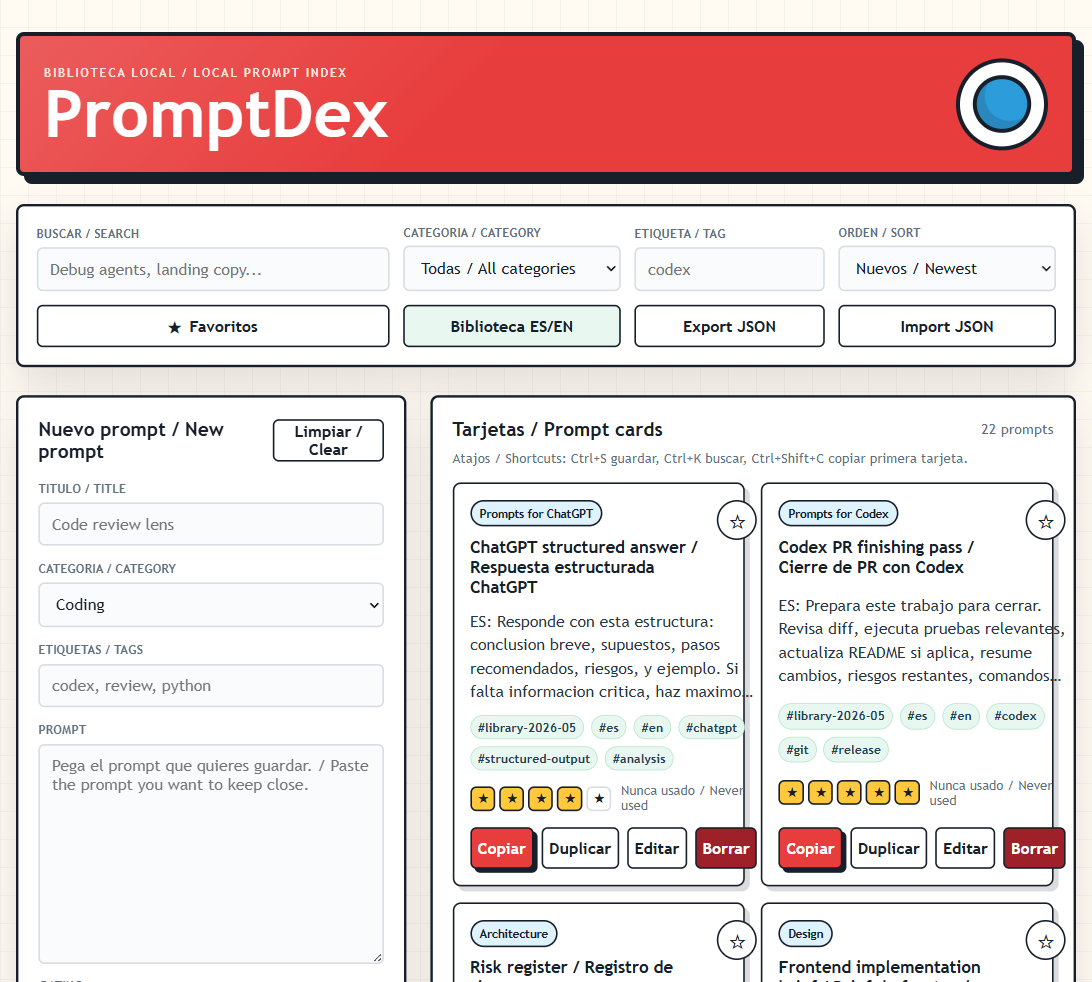
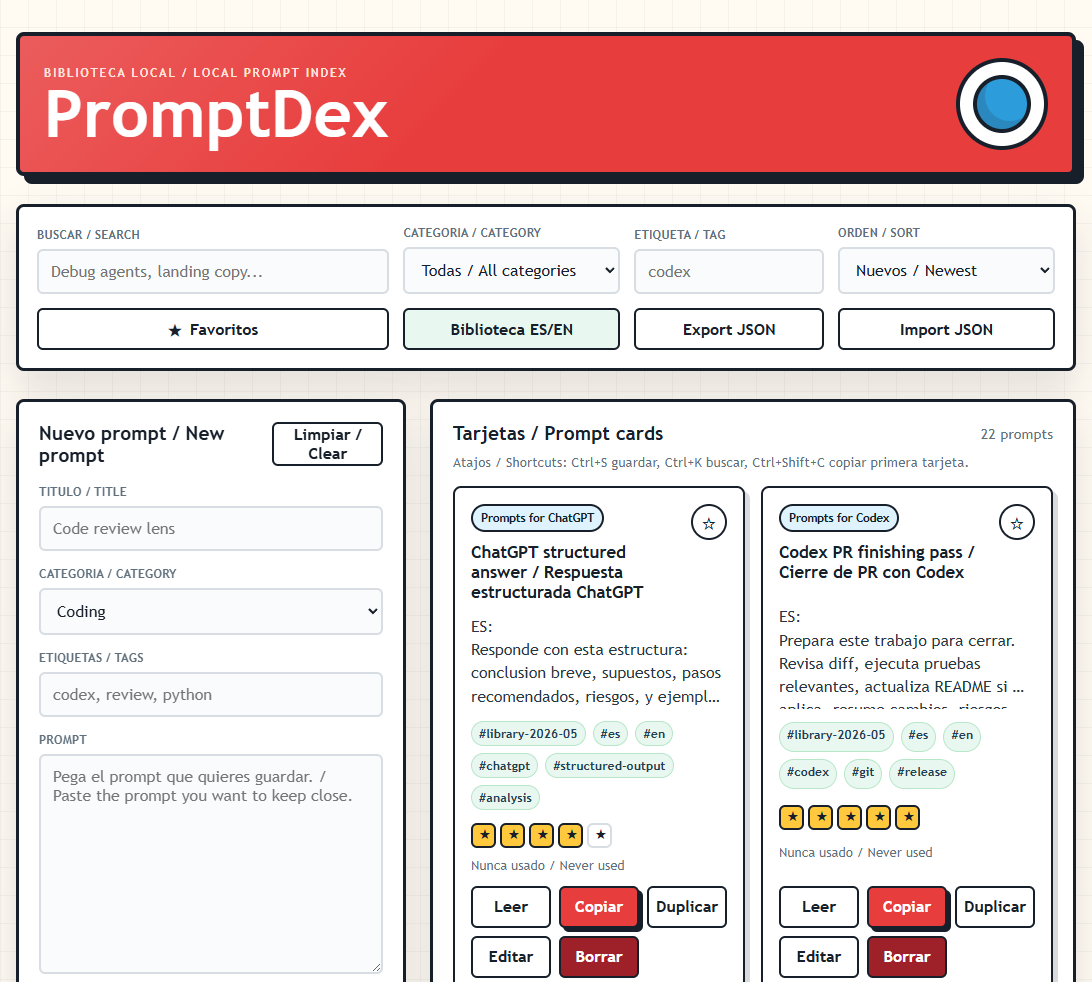
fix: improve prompt card responsiveness

Changed region(s): [[0.0, 0.2138, 0.9963, 1.0], [0.3425, 0.5804, 0.3736, 0.6415], [0.3425, 0.5193, 0.3736, 0.5499]]

diff --git a/promptdex/static/styles.css b/promptdex/static/styles.css
@@ -95,6 +95,7 @@ h2 {
 h3 {
   margin: 10px 0 0;
   font-size: 1.05rem;
+  overflow-wrap: anywhere;
 }
 
 .dex-light {
@@ -323,7 +324,7 @@ button:hover {
 
 .prompt-grid {
   display: grid;
-  grid-template-columns: repeat(auto-fit, minmax(260px, 1fr));
+  grid-template-columns: repeat(auto-fit, minmax(min(100%, 245px), 1fr));
   gap: 16px;
 }
 
@@ -340,8 +341,14 @@ button:hover {
 
 .card-head {
   display: flex;
+  align-items: flex-start;
   justify-content: space-between;
   gap: 10px;
+  min-width: 0;
+}
+
+.card-head > div {
+  min-width: 0;
 }
 
 .badge {
@@ -358,14 +365,14 @@ button:hover {
 }
 
 .icon {
-  flex: 0 0 40px;
-  width: 40px;
-  height: 40px;
+  flex: 0 0 36px;
+  width: 36px;
+  height: 36px;
   color: var(--ink);
   background: #ffffff;
   border: 2px solid var(--ink);
   border-radius: 999px;
-  font-size: 1.35rem;
+  font-size: 1.15rem;
 }
 
 .favorite-button.is-favorite {
@@ -379,8 +386,18 @@ button:hover {
   overflow: hidden;
   color: #293744;
   line-height: 1.45;
+  overflow-wrap: anywhere;
+  white-space: pre-wrap;
   -webkit-box-orient: vertical;
   -webkit-line-clamp: 4;
+}
+
+.body-preview.is-expanded {
+  display: block;
+  max-height: 420px;
+  overflow: auto;
+  padding-right: 4px;
+  -webkit-line-clamp: unset;
 }
 
 .tags {
@@ -403,6 +420,7 @@ button:hover {
   display: flex;
   align-items: center;
   justify-content: space-between;
+  flex-wrap: wrap;
   gap: 10px;
   color: var(--muted);
   font-size: 0.82rem;
@@ -416,7 +434,7 @@ button:hover {
 
 .card-actions {
   display: grid;
-  grid-template-columns: repeat(4, 1fr);
+  grid-template-columns: repeat(auto-fit, minmax(72px, 1fr));
   gap: 8px;
   margin-top: auto;
 }
@@ -469,8 +487,25 @@ button:hover {
     height: 38px;
   }
 
-  .card-actions,
   .form-row {
     grid-template-columns: 1fr;
+  }
+
+  .prompt-card {
+    padding: 14px;
+  }
+
+  .card-actions {
+    grid-template-columns: repeat(2, minmax(0, 1fr));
+  }
+
+  .primary,
+  .secondary,
+  .danger,
+  .ghost,
+  .toggle,
+  .copy-button {
+    min-width: 0;
+    padding-inline: 8px;
   }
 }

diff --git a/promptdex/static/app.js b/promptdex/static/app.js
@@ -4,6 +4,7 @@ const state = {
   rating: 3,
   favoriteOnly: false,
   copiedId: null,
+  expandedIds: new Set(),
   visiblePrompts: [],
 };
 
@@ -130,9 +131,13 @@ function renderPrompts() {
 
   for (const prompt of prompts) {
     const card = selectors.template.content.firstElementChild.cloneNode(true);
+    const bodyPreview = card.querySelector(".body-preview");
+    const isExpanded = state.expandedIds.has(prompt.id);
+
     card.querySelector(".badge").textContent = prompt.category;
     card.querySelector("h3").textContent = prompt.title;
-    card.querySelector(".body-preview").textContent = prompt.body;
+    bodyPreview.textContent = prompt.body;
+    bodyPreview.classList.toggle("is-expanded", isExpanded);
     card.querySelector(".last-used").textContent = formatDate(prompt.last_used_at);
 
     const favoriteButton = card.querySelector(".favorite-button");
@@ -158,11 +163,25 @@ function renderPrompts() {
     copyButton.textContent = state.copiedId === prompt.id ? "Copiado" : "Copiar";
     copyButton.addEventListener("click", () => copyPrompt(prompt));
 
+    const readButton = card.querySelector(".read-button");
+    readButton.textContent = isExpanded ? "Cerrar" : "Leer";
+    readButton.setAttribute("aria-expanded", String(isExpanded));
+    readButton.addEventListener("click", () => togglePromptBody(prompt.id));
+
     card.querySelector(".duplicate-button").addEventListener("click", () => duplicatePrompt(prompt.id));
     card.querySelector(".edit-button").addEventListener("click", () => fillForm(prompt));
     card.querySelector(".delete-button").addEventListener("click", () => deletePrompt(prompt));
     selectors.list.append(card);
   }
+}
+
+function togglePromptBody(id) {
+  if (state.expandedIds.has(id)) {
+    state.expandedIds.delete(id);
+  } else {
+    state.expandedIds.add(id);
+  }
+  renderPrompts();
 }
 
 function resetForm() {

diff --git a/promptdex/static/index.html b/promptdex/static/index.html
@@ -146,6 +146,7 @@
         </div>
 
         <div class="card-actions">
+          <button class="read-button secondary" type="button" aria-expanded="false">Leer</button>
           <button class="copy-button" type="button">Copiar</button>
           <button class="duplicate-button secondary" type="button">Duplicar</button>
           <button class="edit-button secondary" type="button">Editar</button>